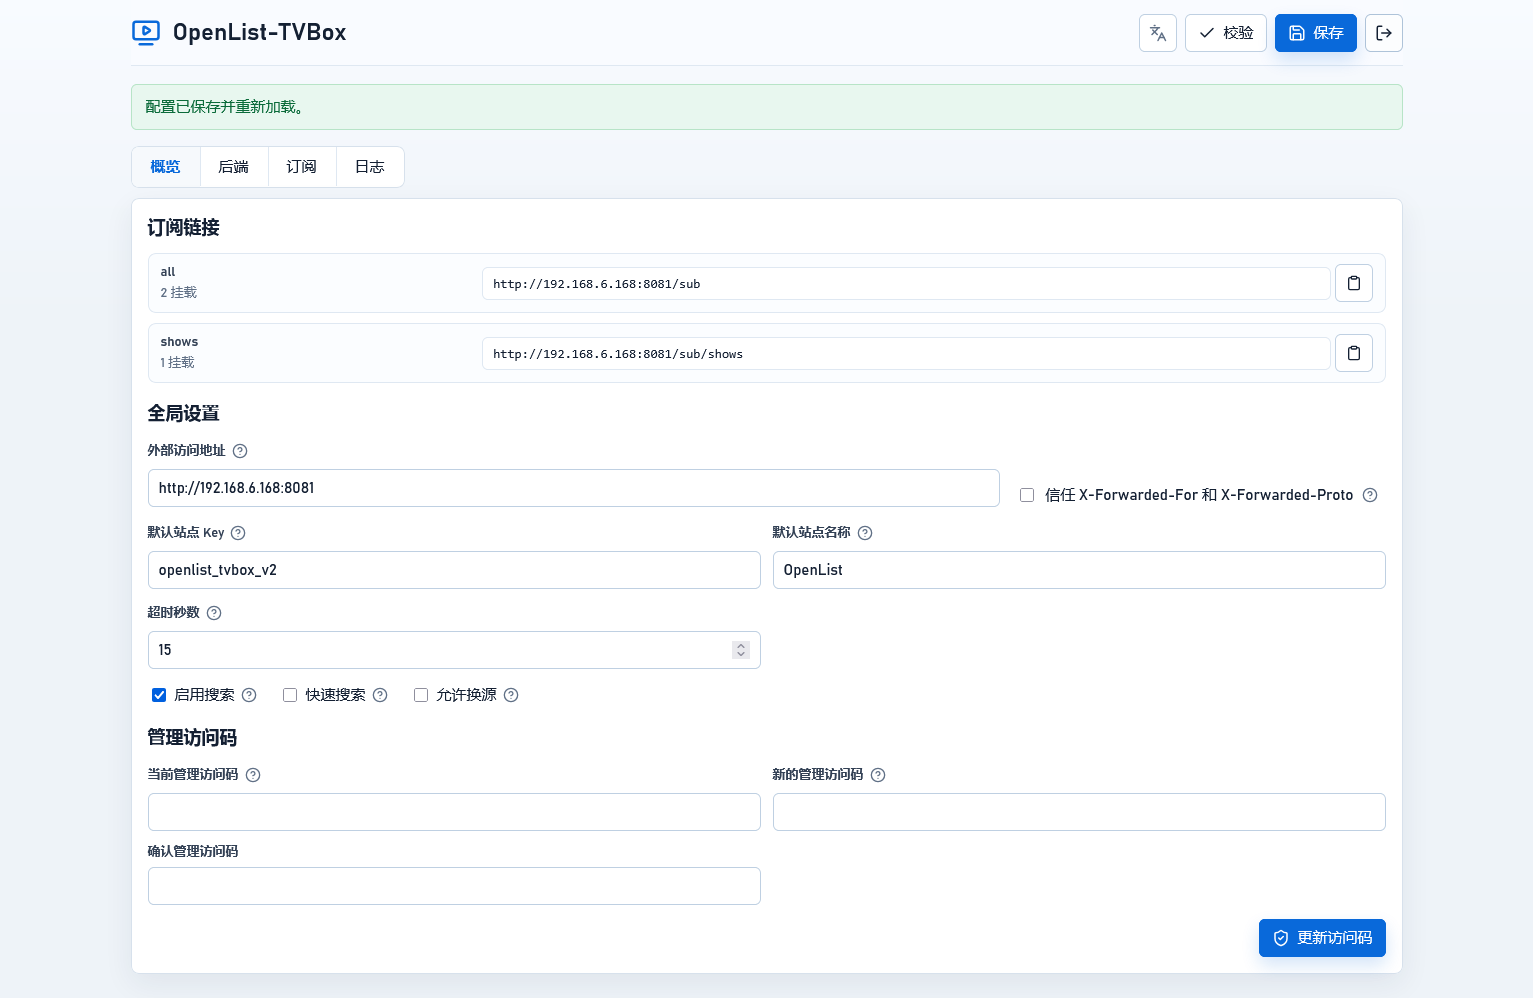
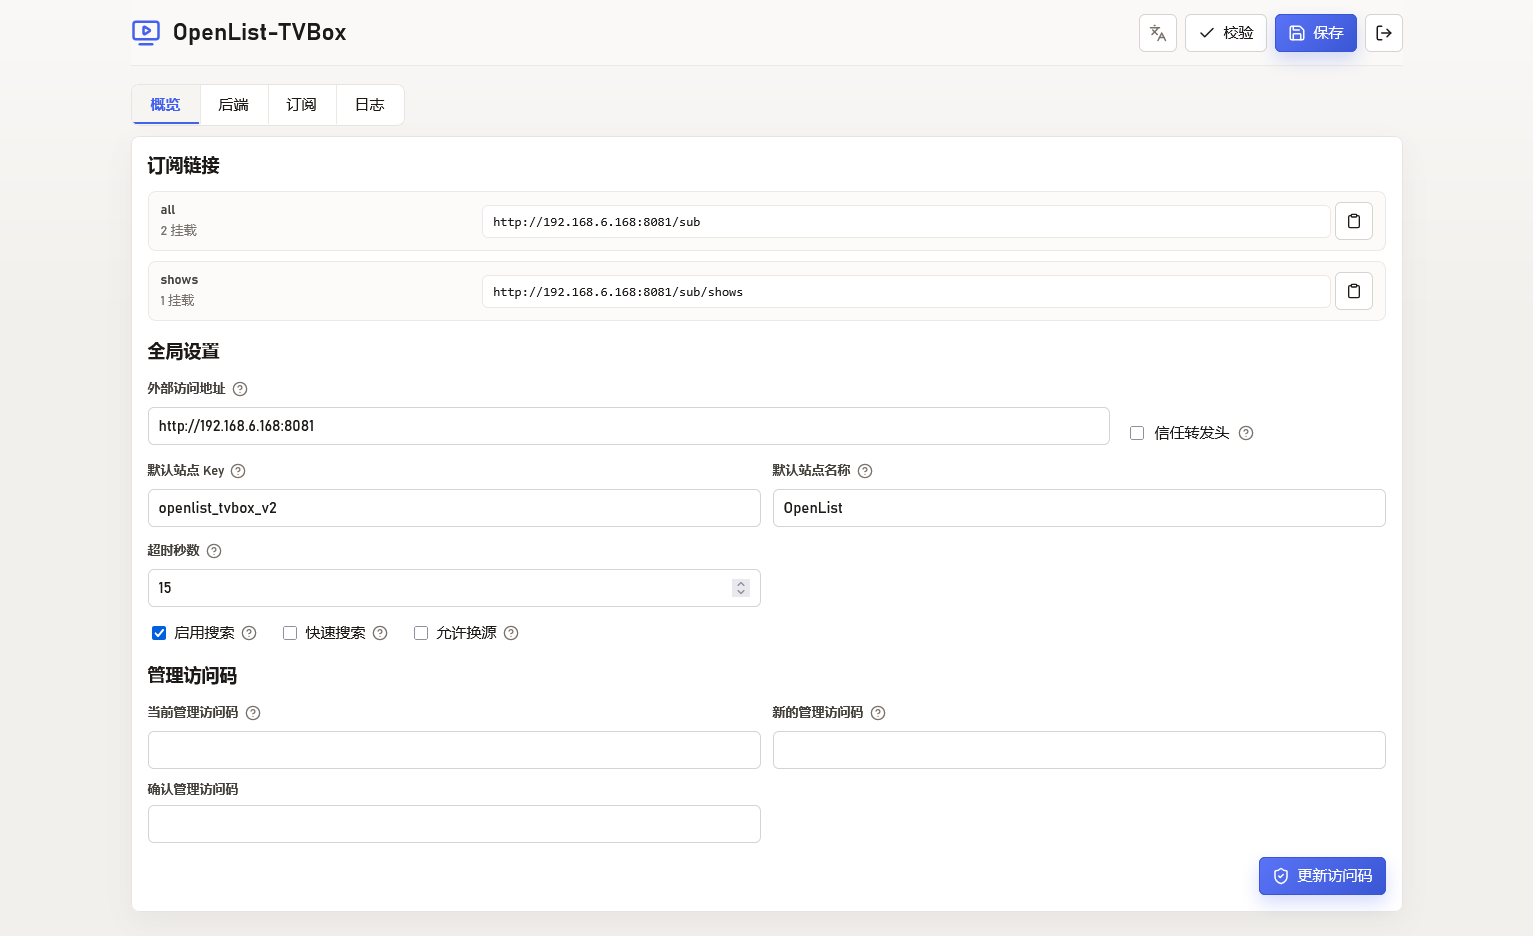
style(admin): switch color palette to warm-stone theme with indigo accent

diff --git a/web/admin/src/styles.css b/web/admin/src/styles.css
@@ -1,30 +1,30 @@
 :root {
-  --color-bg: #eef3f8;
-  --color-bg-top: #f8fbff;
+  --color-bg: #f2f0ed;
+  --color-bg-top: #faf8f6;
   --color-surface: #ffffff;
-  --color-surface-muted: #fbfdff;
-  --color-surface-hover: #f6f9fc;
-  --color-text: #142033;
-  --color-text-muted: #607086;
-  --color-label: #334155;
-  --color-border: #bfd0e2;
-  --color-border-hover: #8ea9c7;
-  --color-border-panel: #d7e1ec;
-  --color-border-muted: #dfe8f2;
-  --color-primary: #0969da;
-  --color-primary-hover: #075fc6;
-  --color-danger: #c2412f;
-  --color-danger-strong: #b12c1c;
-  --color-danger-bg: #fff3f0;
-  --color-danger-hover: #fff5f3;
-  --color-danger-border: #f0a9a0;
-  --color-danger-border-muted: #f3b8af;
-  --color-success: #0b6b3a;
-  --color-success-bg: #e8f7ef;
-  --color-success-border: #b7e4c7;
-  --shadow-panel: 0 10px 30px rgb(26 47 75 / 7%);
-  --shadow-primary: 0 8px 18px rgb(9 105 218 / 18%);
-  --shadow-focus: 0 0 0 3px rgb(9 105 218 / 16%);
+  --color-surface-muted: #fcfbf9;
+  --color-surface-hover: #f7f5f2;
+  --color-text: #1c1917;
+  --color-text-muted: #78716c;
+  --color-label: #44403c;
+  --color-border: #d6d3d1;
+  --color-border-hover: #a8a29e;
+  --color-border-panel: #e7e5e4;
+  --color-border-muted: #ece9e5;
+  --color-primary: #4361ee;
+  --color-primary-hover: #3a56d4;
+  --color-danger: #dc2626;
+  --color-danger-strong: #b91c1c;
+  --color-danger-bg: #fef2f2;
+  --color-danger-hover: #fef7f7;
+  --color-danger-border: #fca5a5;
+  --color-danger-border-muted: #fecaca;
+  --color-success: #16a34a;
+  --color-success-bg: #f0fdf4;
+  --color-success-border: #bbf7d0;
+  --shadow-panel: 0 10px 30px rgb(100 90 70 / 7%);
+  --shadow-primary: 0 8px 18px rgb(67 97 238 / 22%);
+  --shadow-focus: 0 0 0 3px rgb(67 97 238 / 15%);
 
   color: var(--color-text);
   background: var(--color-bg);
@@ -69,8 +69,8 @@ button {
 }
 
 button.primary {
-  background: var(--color-primary);
-  border-color: var(--color-primary);
+  background: linear-gradient(135deg, #5a73f7, #3a56d4);
+  border-color: #3a56d4;
   color: var(--color-surface);
   box-shadow: var(--shadow-primary);
 }
@@ -81,8 +81,8 @@ button:hover {
 }
 
 button.primary:hover {
-  background: var(--color-primary-hover);
-  border-color: var(--color-primary-hover);
+  background: linear-gradient(135deg, #4f68ec, #3249c0);
+  border-color: #3249c0;
 }
 
 button:focus-visible,
@@ -187,7 +187,7 @@ p {
 .topbar {
   align-items: center;
   backdrop-filter: blur(10px);
-  background: rgb(248 251 255 / 92%);
+  background: rgb(250 248 246 / 92%);
   border-bottom: 1px solid var(--color-border-muted);
   display: flex;
   gap: 20px;
@@ -483,6 +483,7 @@ button.tab + button.tab {
 button.tab.active {
   background: var(--color-surface-hover);
   border-color: transparent;
+  box-shadow: inset 0 -2px 0 var(--color-primary);
   color: var(--color-primary);
   font-weight: 700;
 }
